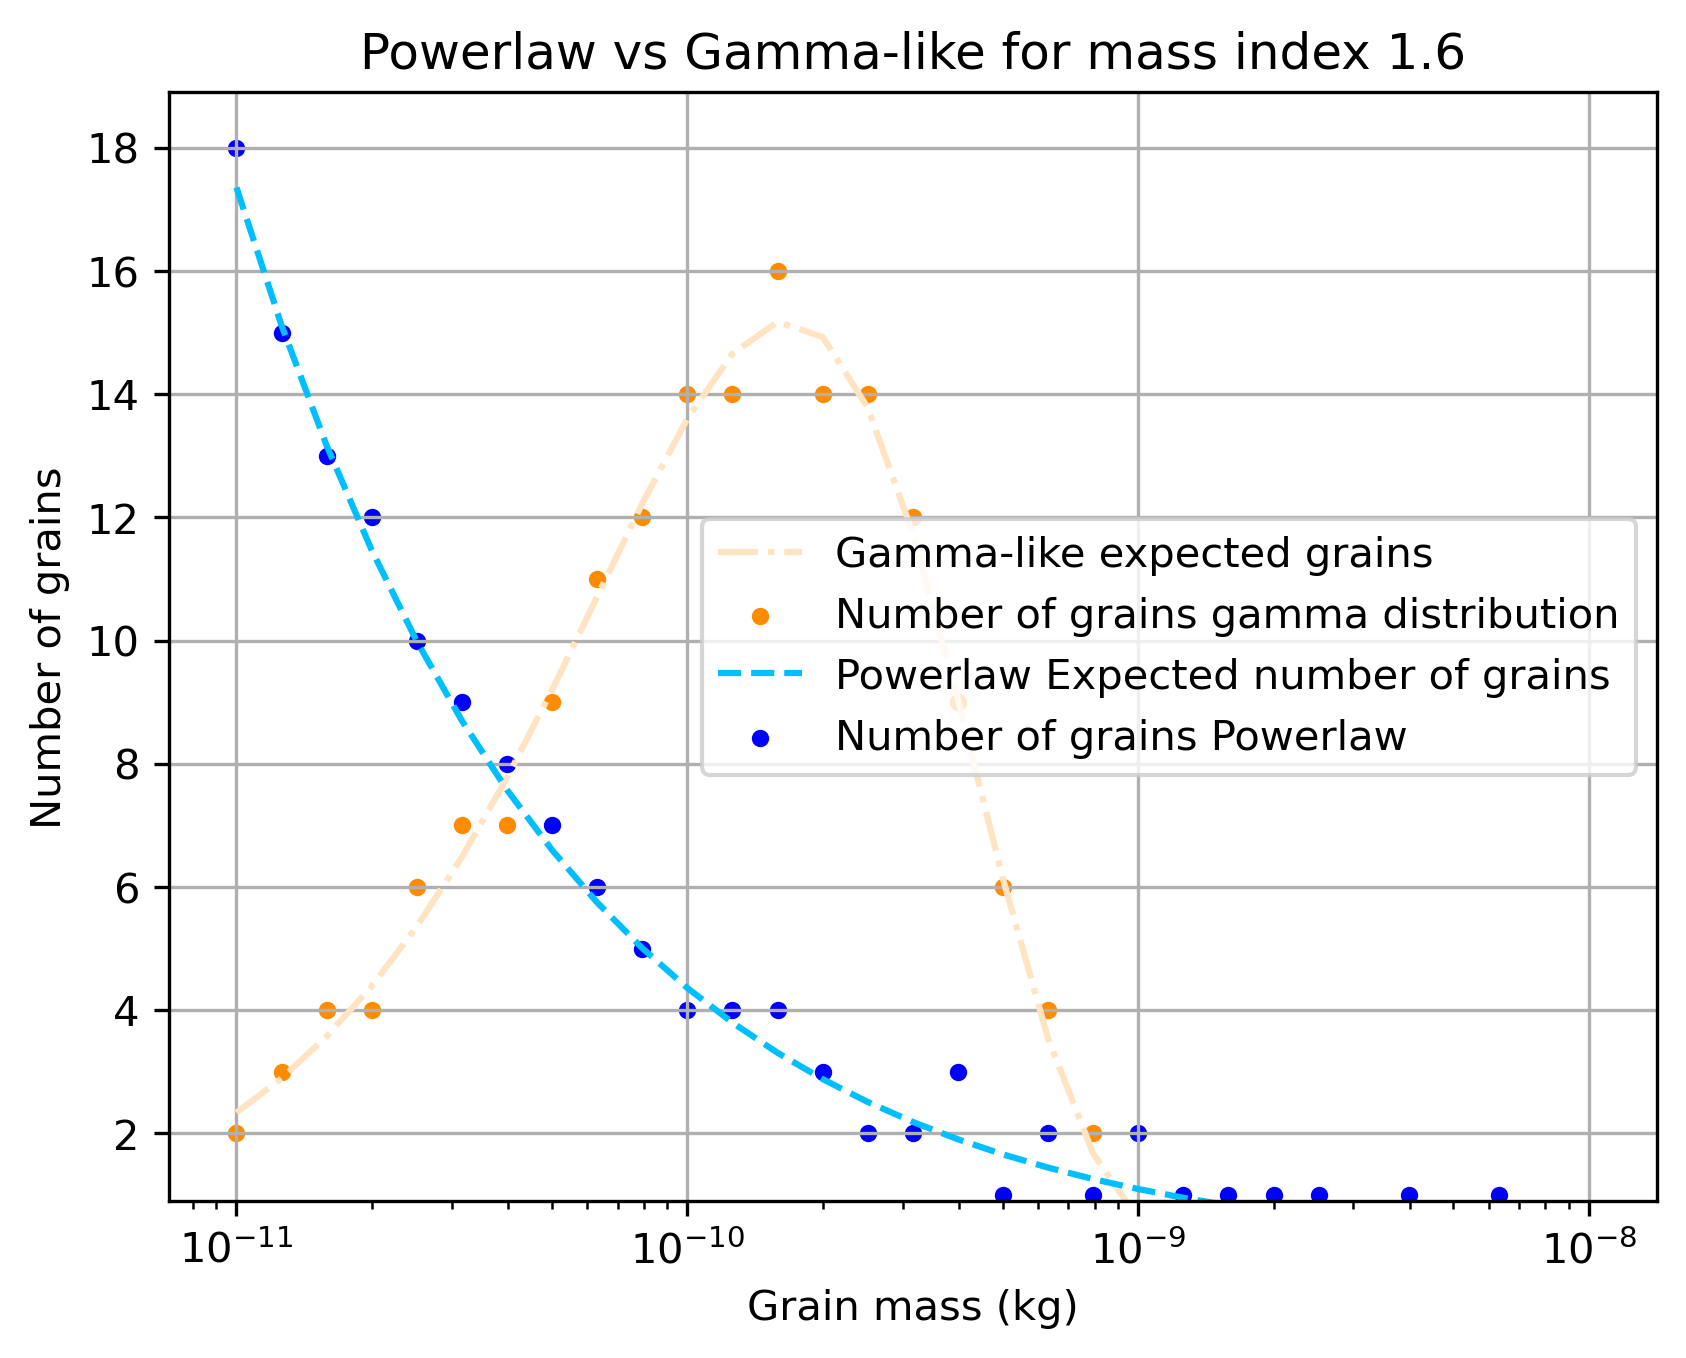
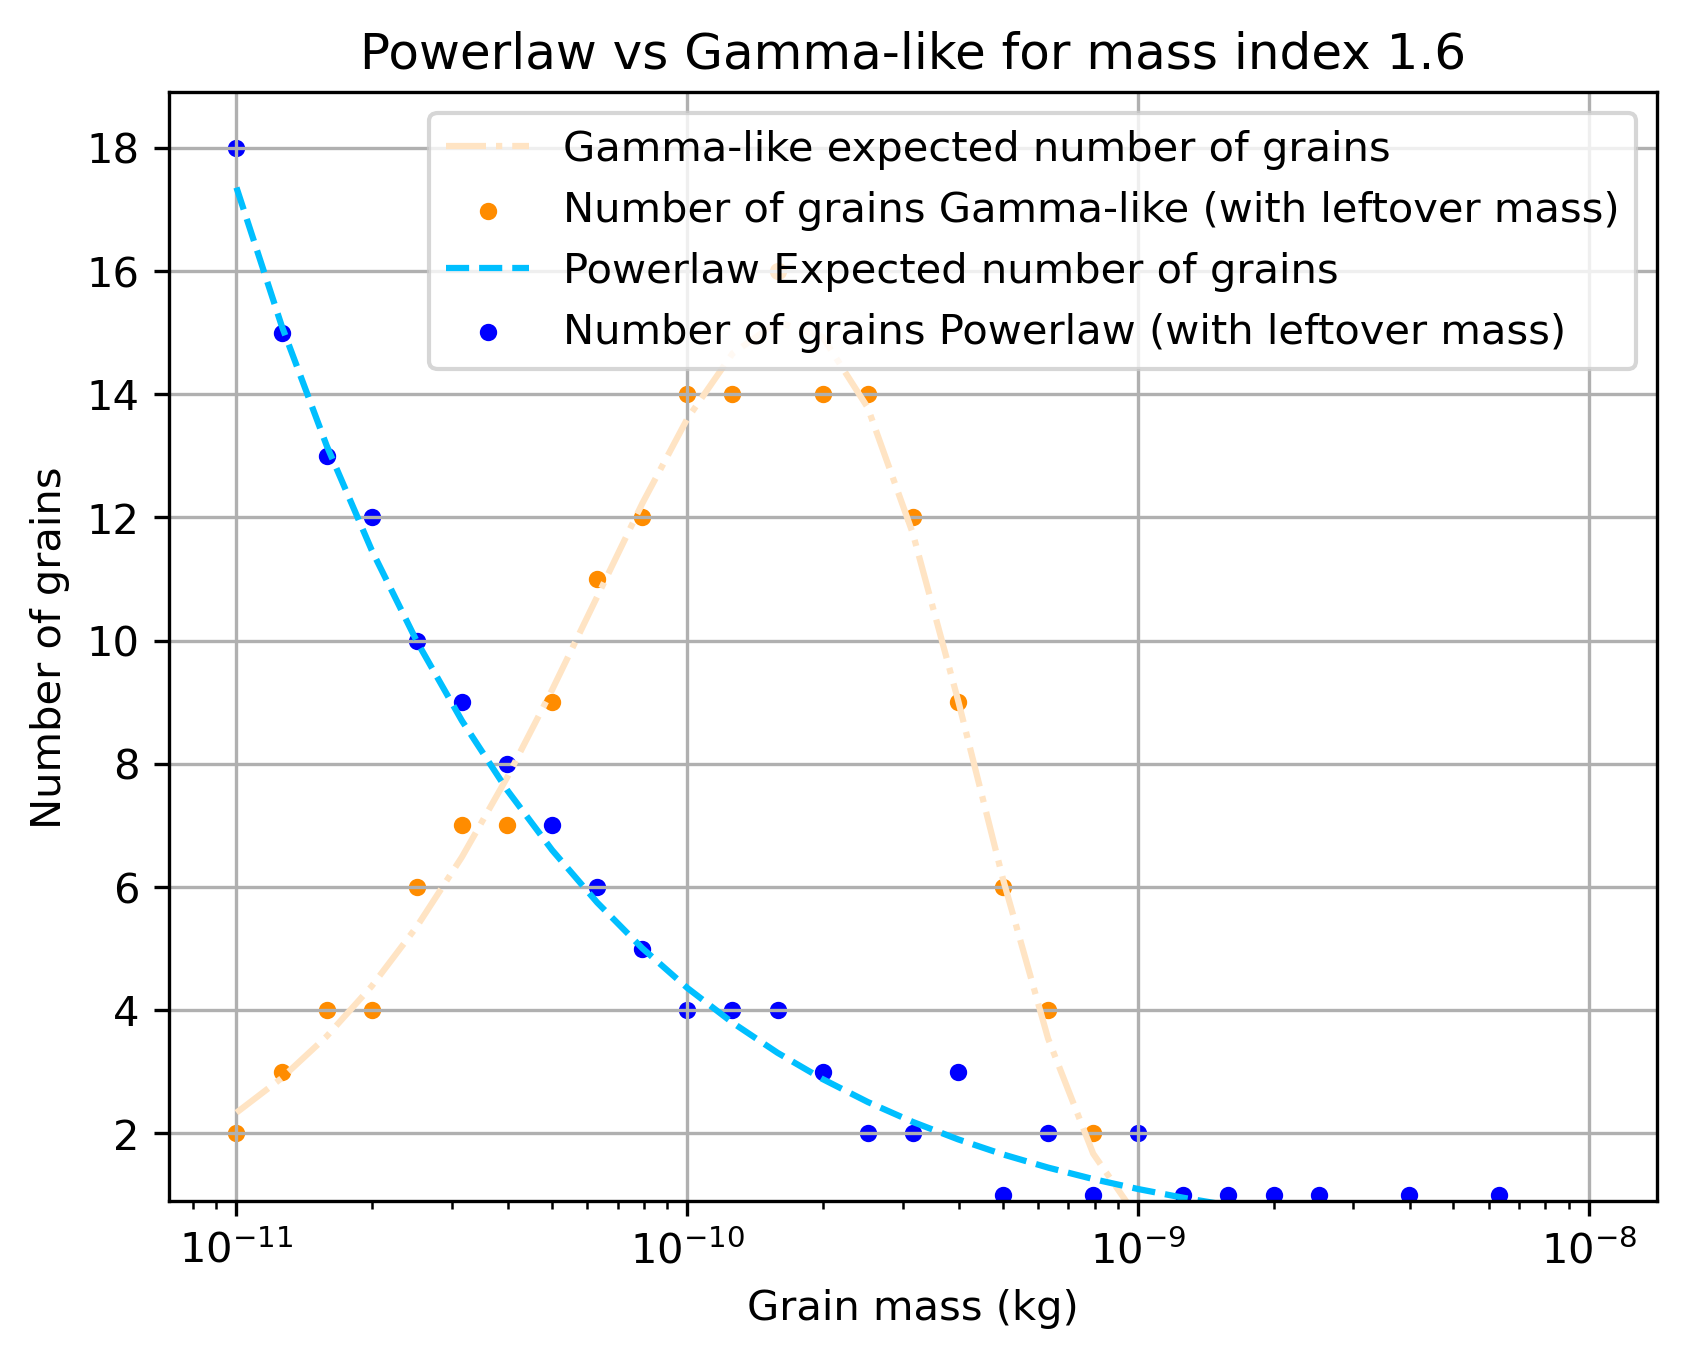
iron particle distribution found and fast!

diff --git a/Code/DynNestSampl/iron_model_tests/ironPaper_particles.py b/Code/DynNestSampl/iron_model_tests/ironPaper_particles.py
@@ -16,7 +16,7 @@ m_dr = mass_min + (mass_max - mass_min) * mass_index
 
 # folder where code is running
 output_path = r'C:\Users\maxiv\WMPG-repoMAX\Code\DynNestSampl\iron_model_tests'
-
+array_timegamma = []
 ### exponential distribution ###
 start_time = time.time()
 
@@ -65,80 +65,6 @@ print(f"Total mass (kg): {total_mass:.4e}")
 print(f"Relative error: {abs(eroded_mass - total_mass)/eroded_mass:.2%}\n")
 
 
-#### gamma distribution ###
-# reset the timer
-start_time = time.time()
-
-# Compute the mass bin coefficient
-mass_bin_coeff = 10**(-1.0/erosion_bins_per_10mass)
-
-# Compute the number of mass bins
-k = int(1 + math.log10(mass_min/mass_max)/math.log10(mass_bin_coeff))
-
-# Compute mean mass analytically
-if mass_index == 1.0:
-    m_mean = (mass_max - mass_min) / np.log(mass_max / mass_min)
-elif mass_index == 2.0:
-    m_mean = np.log(mass_max / mass_min) / (1/mass_min - 1/mass_max)
-else:
-    numerator = (mass_max**(2 - mass_index) - mass_min**(2 - mass_index)) / (2 - mass_index)
-    denominator = (mass_max**(1 - mass_index) - mass_min**(1 - mass_index)) / (1 - mass_index)
-    m_mean = numerator / denominator
-
-# mass_index_dr = 0.05  # Mass index for the gamma distribution
-# m_mean = mass_min + (mass_max - mass_min) * mass_index_dr
-
-# Convert mean mass to mean diameter
-D_mean = (6 * m_mean / (np.pi * rho))**(1/3)
-print(f"Mean mass (kg): {m_mean:.4e}")
-print(f"Mean diameter (µm): { D_mean * 1e6:.4f}\n")
-
-s = (D_mean * gamma_5_3) ** 3
-
-# Bin setup
-mass_bins = [mass_max * (mass_bin_coeff ** i) for i in range(k)]
-bin_widths = [m * (1 - mass_bin_coeff) for m in mass_bins]
-
-# Calculate unnormalized n(m)
-n_m_raw = []
-for m in mass_bins:
-    Diameter = (6 * m / (np.pi * rho)) ** (1/3)
-    n_D = (3 * Diameter**2 / s) * np.exp(-Diameter**3 / s)
-    dD_dm = (1/3) * (6 / (np.pi * rho))**(1/3) * m**(-2/3)
-    n_m = n_D * abs(dD_dm)
-    n_m_raw.append(n_m)
-
-# Convert to total fragment counts with proper normalization
-mass_per_bin_raw = [n * w * m for n, w, m in zip(n_m_raw, bin_widths, mass_bins)]
-scaling = eroded_mass / np.sum(mass_per_bin_raw)
-n_m_scaled = [n * scaling for n in n_m_raw]
-
-# Now assign integer fragments with leftover mass tracking
-frag_children_dr = []
-leftover_mass = 0
-# for i in range(0, k):
-for i, m in enumerate(mass_bins):
-    expected_count = n_m_scaled[i] * bin_widths[i] + leftover_mass / m
-    count_int = int(expected_count)
-    leftover_mass = (expected_count - count_int) * m
-
-    if count_int > 0:
-        frag_children_dr.append((m, count_int))
-        # print(f"Mass bin {i}: m_grain = {m:.2e} kg, n_grains = {expected_count:.2f}, n_grains_int = {count_int}")
-
-# stop the timer
-end_time = time.time()
-print(f"Time taken: {end_time - start_time:.4e} seconds")
-
-# Final stats
-total_fragments = sum(n for _, n in frag_children_dr)
-total_mass = sum(m * n for m, n in frag_children_dr)
-
-print(f"Total fragments: {total_fragments}")
-print(f"Total mass (kg): {total_mass:.4e}")
-print(f"Relative error: {abs(eroded_mass - total_mass)/eroded_mass:.2%}\n")
-
-
 ### fast gamma distribution ###
 # reset the timer
 start_time = time.time()
@@ -159,8 +85,14 @@ else:
     denominator = (mass_max**(1 - mass_index) - mass_min**(1 - mass_index)) / (1 - mass_index)
     m_mean = numerator / denominator
 
+# mass_index_dr = 0.05  # Mass index for the gamma distribution
+# m_mean = mass_min + (mass_max - mass_min) * mass_index_dr
+
+# Convert mean mass to mean diameter
 D_mean = (6 * m_mean / (np.pi * rho))**(1/3)
 s = (D_mean * gamma_5_3) ** 3
+# print(f"Mean mass (kg): {m_mean:.4e}")
+# print(f"Mean diameter (µm): { D_mean * 1e6:.4f}\n")
 
 D = (6 * mass_bins / (np.pi * rho)) ** (1 / 3)
 n_D = (3 * D**2 / s) * np.exp(-D**3 / s)
@@ -174,14 +106,14 @@ n_m_scaled = n_m_raw * scaling
 # Integer grain assignment with leftover mass tracking
 # int_counts = np.zeros_like(mass_bins, dtype=int)
 leftover_mass = 0
-frag_children_fast = []
+frag_children_dr = []
 for i in range(k):
     expected_count = n_m_scaled[i] * bin_widths[i] + leftover_mass / mass_bins[i]
-    int_counts = int(math.floor(expected_count)) # int(expected_count)
-    leftover_mass = (expected_count - int_counts) * mass_bins[i]
+    n_grains_bin_round = int(math.floor(expected_count)) # int(expected_count)
+    leftover_mass = (expected_count - n_grains_bin_round) * mass_bins[i]
     # Store results for fast gamma distribution
-    if int_counts > 0:
-        frag_children_fast.append((mass_bins[i], int_counts))
+    if n_grains_bin_round > 0:
+        frag_children_dr.append((mass_bins[i], n_grains_bin_round))
         # print(f"Mass bin {i}: m_grain = {mass_bins[i]:.2e} kg, n_grains_bin = {expected_count:.2f}, n_grains_bin_round = {int_counts[i]}")
 
 # stop the timer
@@ -189,8 +121,8 @@ end_time = time.time()
 print(f"Time taken: {end_time - start_time:.4e} seconds")
 
 # Final stats
-total_fragments = sum(n for _, n in frag_children_fast)
-total_mass = sum(m * n for m, n in frag_children_fast)
+total_fragments = sum(n for _, n in frag_children_dr)
+total_mass = sum(m * n for m, n in frag_children_dr)
 
 print(f"Total fragments: {total_fragments}")
 print(f"Total mass (kg): {total_mass:.4e}")
@@ -215,11 +147,11 @@ for m in mass_range:
 total_grains = sum(n for _, n in frag_children_dr)
 scaling = total_grains / sum(n_gamma_bins)
 n_gamma_bins_scaled = [n * scaling for n in n_gamma_bins]
-ax.plot(mass_range, n_gamma_bins_scaled, linestyle='-.', color='bisque', label='Gamma-like expected grains')
-ax.scatter([m[0] for m in frag_children_dr], [m[1] for m in frag_children_dr],  s=10, color='darkorange', label='Number of grains gamma distribution')# marker='o', linestyle='-', color='blue', label='Number of grains gamma distribution')
+ax.plot(mass_range, n_gamma_bins_scaled, linestyle='-.', color='bisque', label='Gamma-like expected number of grains')
+ax.scatter([m[0] for m in frag_children_dr], [m[1] for m in frag_children_dr],  s=10, color='darkorange', label='Number of grains Gamma-like (with leftover mass)')# marker='o', linestyle='-', color='blue', label='Number of grains gamma distribution')
 ax.plot(mass_range, [n0*(mass_max/m)**(mass_index - 1) for m in mass_range], color='deepskyblue', label='Powerlaw Expected number of grains', linestyle='--')
 # plot the number of grains in each bin as a scatter plot
-ax.scatter([m[0] for m in frag_children], [m[1] for m in frag_children], s=10, color='blue', label='Number of grains Powerlaw')
+ax.scatter([m[0] for m in frag_children], [m[1] for m in frag_children], s=10, color='blue', label='Number of grains Powerlaw (with leftover mass)')  # marker='o', linestyle='-', color='blue', label='Number of grains Powerlaw (with leftover mass)')
 ax.set_xscale('log')
 # ax.set_yscale('log')
 # show laegend

diff --git a/Code/DynNestSampl/iron_model_tests/ironPaper_particles_compare.py b/Code/DynNestSampl/iron_model_tests/ironPaper_particles_compare.py
@@ -1,0 +1,136 @@
+import numpy as np
+import time
+import math
+import matplotlib.pyplot as plt
+import os
+
+
+erosion_bins_per_10mass = 10  # Number of erosion bins per decade of mass
+mass_min = 1e-11  # Minimum mass in kg
+mass_max = 1e-8  # Maximum mass in kg
+mass_index = 1.6  # Mass index for the distribution (2 for a power law)
+eroded_mass = 2.945956677208338e-08  # Total mass eroded in kg
+rho = 7000  # kg/m^3 (example density for rock/iron)
+gamma_5_3 = 0.90274529295093375313996375552960671484470367431640625 # gamma(5/3)
+m_dr = mass_min + (mass_max - mass_min) * mass_index
+
+for mass_index in [1, 1.25, 1.5, 1.75, 2, 2.25, 2.5, 2.75, 3]:
+    # folder where code is running
+    array_time_power = []
+    array_time_gamma = []
+    for time_index in range(1000):
+        ##########################################################################################################################
+
+        ### exponential distribution ###
+        start_time = time.time()
+
+        # Compute the mass bin coefficient
+        mass_bin_coeff = 10**(-1.0/erosion_bins_per_10mass)
+
+        # Compute the number of mass bins
+        k = int(1 + math.log10(mass_min/mass_max)/math.log10(mass_bin_coeff))
+
+        # Compute the number of the largest grains
+        if mass_index == 2:
+            n0 = eroded_mass/(mass_max*k)
+        else:
+            n0 = abs((eroded_mass/mass_max)*(1 - mass_bin_coeff**(2 - mass_index))/(1 - mass_bin_coeff**((2 - mass_index)*k)))
+
+
+        # Go though every mass bin
+        frag_children = []
+        leftover_mass = 0
+        for i in range(0, k):
+
+            # Compute the mass of all grains in the bin (per grain)
+            m_grain = mass_max*mass_bin_coeff**i
+
+            # Compute the number of grains in the bin
+            n_grains_bin = n0*(mass_max/m_grain)**(mass_index - 1) + leftover_mass/m_grain
+            n_grains_bin_round = int(math.floor(n_grains_bin))
+
+            # Compute the leftover mass
+            leftover_mass = (n_grains_bin - n_grains_bin_round)*m_grain
+            # Store result
+            if n_grains_bin_round > 0:
+                # plot the number of grains in each bin and the mass of the grains
+                frag_children.append((m_grain, n_grains_bin_round))
+                # print(f"Mass bin {i}: m_grain = {m_grain:.2e} kg, n_grains_bin = {n_grains_bin:.2f}, n_grains_bin_round = {n_grains_bin_round}")
+
+        # stop the timer
+        end_time = time.time()
+        array_time_power.append(end_time - start_time)
+
+        ##########################################################################################################################
+        # reset the timer
+        start_time = time.time()
+
+        # Bin setup
+        mass_bin_coeff = 10 ** (-1.0 / erosion_bins_per_10mass)
+        # k = int(1 + np.log10(mass_min / mass_max) / np.log10(mass_bin_coeff))
+        k = int(1 + math.log10(mass_min/mass_max)/math.log10(mass_bin_coeff))
+        mass_bins = np.array([mass_max * (mass_bin_coeff ** i) for i in range(k)])
+        bin_widths = mass_bins * (1 - mass_bin_coeff)
+
+        # log_range = np.log(mass_max / mass_min)
+        log_range = math.log(mass_max / mass_min)
+
+        if mass_index == 1.0:
+            m_mean = (mass_max - mass_min) / log_range
+        elif mass_index == 2.0:
+            m_mean = log_range / (1.0 / mass_min - 1.0 / mass_max)
+        else:
+            a = 2 - mass_index
+            b = 1 - mass_index
+            m_max_a = mass_max**a
+            m_min_a = mass_min**a
+            m_max_b = mass_max**b
+            m_min_b = mass_min**b
+
+            num = (m_max_a - m_min_a) / a
+            den = (m_max_b - m_min_b) / b
+            m_mean = num / den
+
+
+        # mass_index_dr = 0.05  # Mass index for the gamma distribution
+        # m_mean = mass_min + (mass_max - mass_min) * mass_index_dr
+
+        # Convert mean mass to mean diameter
+        D_mean = (6 * m_mean / (math.pi * rho))**(1/3)
+        s = (D_mean * gamma_5_3) ** 3
+        # print(f"Mean mass (kg): {m_mean:.4e}")
+        # print(f"Mean diameter (µm): { D_mean * 1e6:.4f}\n")
+
+        D = (6 * mass_bins / (math.pi * rho)) ** (1 / 3)
+        n_D = (3 * D**2 / s) * np.exp(-D**3 / s)
+        dD_dm = (1/3) * (6 / (math.pi * rho))**(1/3) * mass_bins**(-2/3)
+        n_m_raw = n_D * np.abs(dD_dm)
+
+        mass_per_bin_raw = n_m_raw * bin_widths * mass_bins
+        scaling = eroded_mass / np.sum(mass_per_bin_raw)
+        n_m_scaled = n_m_raw * scaling
+
+        # Integer grain assignment with leftover mass tracking
+        # int_counts = np.zeros_like(mass_bins, dtype=int)
+        leftover_mass = 0
+        frag_children_dr = []
+        for i in range(k):
+            expected_count = n_m_scaled[i] * bin_widths[i] + leftover_mass / mass_bins[i]
+            n_grains_bin_round = int(math.floor(expected_count)) # int(expected_count)
+            leftover_mass = (expected_count - n_grains_bin_round) * mass_bins[i]
+            # Store results for fast gamma distribution
+            if n_grains_bin_round > 0:
+                frag_children_dr.append((mass_bins[i], n_grains_bin_round))
+                # print(f"Mass bin {i}: m_grain = {mass_bins[i]:.2e} kg, n_grains_bin = {expected_count:.2f}, n_grains_bin_round = {int_counts[i]}")
+
+        # stop the timer
+        end_time = time.time()
+        array_time_gamma.append(end_time - start_time)
+        ##########################################################################################################################
+
+    # Print the times results
+    print(f"mass index: {mass_index} for {len(array_time_power)} total number of iterations")
+    print(f"   Average time for power law distribution: {np.mean(array_time_power):.6e} seconds")
+    print(f"   Average time for gamma distribution: {np.mean(array_time_gamma):.6e} seconds")
+    print(f"   Total time for power law distribution: {np.sum(array_time_power):.6e} seconds")
+    print(f"   Total time for gamma distribution: {np.sum(array_time_gamma):.6e} seconds")

diff --git a/Code/DynNestSampl/iron_model_tests/ironPaper_particles_fast.py b/Code/DynNestSampl/iron_model_tests/ironPaper_particles_fast.py
@@ -2,6 +2,9 @@ import numpy as np
 import matplotlib.pyplot as plt
 from scipy.special import gamma as gamma_func
 from concurrent.futures import ThreadPoolExecutor
+import os
+
+output_path = r'C:\Users\maxiv\WMPG-repoMAX\Code\DynNestSampl\iron_model_tests'
 
 def compute_gamma_distribution_with_leftover(
     erosion_bins_per_10mass=10,
@@ -51,10 +54,51 @@ def compute_gamma_distribution_with_leftover(
 
     return mass_bins, int_counts
 
-# Parallel execution for multiple mass indices
-mass_indices = [1.5, 1.6, 1.8, 2.0]
-results = {}
+def compute_pwerlaw_distribution_with_leftover(
+    erosion_bins_per_10mass=10,
+    mass_min=1e-11,
+    mass_max=1e-8,
+    mass_index=1.6,
+    eroded_mass=2.945956677208338e-08,
+):
 
+    # Compute the mass bin coefficient
+    mass_bin_coeff = 10**(-1.0/erosion_bins_per_10mass)
+
+    # Compute the number of mass bins
+    k = int(1 + np.log10(mass_min/mass_max)/np.log10(mass_bin_coeff))
+
+    # Compute the number of the largest grains
+    if mass_index == 2:
+        n0 = eroded_mass/(mass_max*k)
+    else:
+        n0 = abs((eroded_mass/mass_max)*(1 - mass_bin_coeff**(2 - mass_index))/(1 - mass_bin_coeff**((2 - mass_index)*k)))
+
+
+    # Go though every mass bin
+    m_grains = []
+    int_counts = []
+    leftover_mass = 0
+    for i in range(0, k):
+
+        # Compute the mass of all grains in the bin (per grain)
+        m_grain = mass_max*mass_bin_coeff**i
+
+        # Compute the number of grains in the bin
+        n_grains_bin = n0*(mass_max/m_grain)**(mass_index - 1) + leftover_mass/m_grain
+        n_grains_bin_round = int(np.floor(n_grains_bin))
+
+        # Compute the leftover mass
+        leftover_mass = (n_grains_bin - n_grains_bin_round)*m_grain
+        int_counts.append(n_grains_bin_round)
+        m_grains.append(m_grain)
+    return m_grains, int_counts
+
+# Parallel execution for multiple mass indices
+# mass_indices = [1, 1.25, 1.5, 1.75]
+mass_indices = [2, 2.25, 2.5, 2.75, 3]
+results = {}
+results_pow = {}
 with ThreadPoolExecutor() as executor:
     futures = {
         idx: executor.submit(compute_gamma_distribution_with_leftover, mass_index=idx)
@@ -65,19 +109,39 @@ with ThreadPoolExecutor() as executor:
         mass_bins, int_counts = future.result()
         results[idx] = (mass_bins, int_counts)
 
+    futures_powerlaw = {
+        idx: executor.submit(compute_pwerlaw_distribution_with_leftover, mass_index=idx)
+        for idx in mass_indices
+    }
+
+    for idx, future in futures_powerlaw.items():
+        mass_bins_pow, int_counts_pow = future.result()
+        results_pow[idx] = (mass_bins_pow, int_counts_pow)
+
 # Plotting
 fig, ax = plt.subplots(figsize=(8, 6))
 
 for idx in mass_indices:
     mass_bins, int_counts = results[idx]
-    ax.plot(mass_bins, int_counts, marker='o', linestyle='-', label=f's = {idx}')
+    ax.plot(mass_bins, int_counts, marker='o', linestyle='-', label=f'Gamma s = {idx}')
+# reset the color cycle for the next plot
+ax.set_prop_cycle(None)
+for idx in mass_indices:
+    mass_bins_pow, int_counts_pow = results_pow[idx]
+    ax.plot(mass_bins_pow, int_counts_pow, marker='x', linestyle='--', label=f'Power-law s = {idx}')
+
+# make the y axis up to the biggest number of grain of gamma distribution mass_bins
+max_y = max(max(int_counts) for _, int_counts in results.values())
+ax.set_ylim(0, max_y * 1.1)
 
 ax.set_xscale('log')
 ax.set_xlabel('Mass (kg)')
 ax.set_ylabel('Number of grains')
-ax.set_title('Gamma Distribution Fragment Counts with Leftover Mass Handling')
+# ax.set_title('Gamma Distribution Fragment Counts with Leftover Mass Handling')
 ax.grid(True, which='both', linestyle='--', linewidth=0.5)
-ax.legend()
+# make the legend 2 columns
+# ax.legend(title='Distribution Type', loc='upper right', ncol=2)
+ax.legend(ncol=2)
+# save the figure
 plt.tight_layout()
-
-plt.show()
+plt.savefig(output_path + os.sep + 'gamma_distribution_fragment_counts_s'+str(np.min(mass_indices))+'-'+str(np.max(mass_indices))+'.png', dpi=300)
